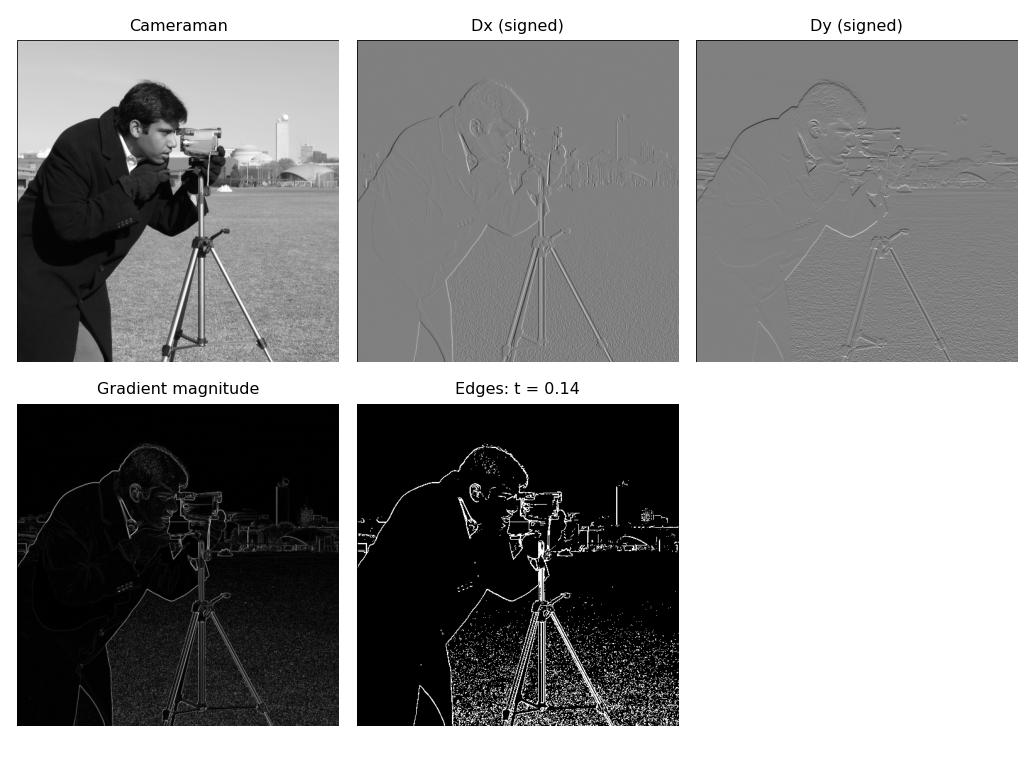
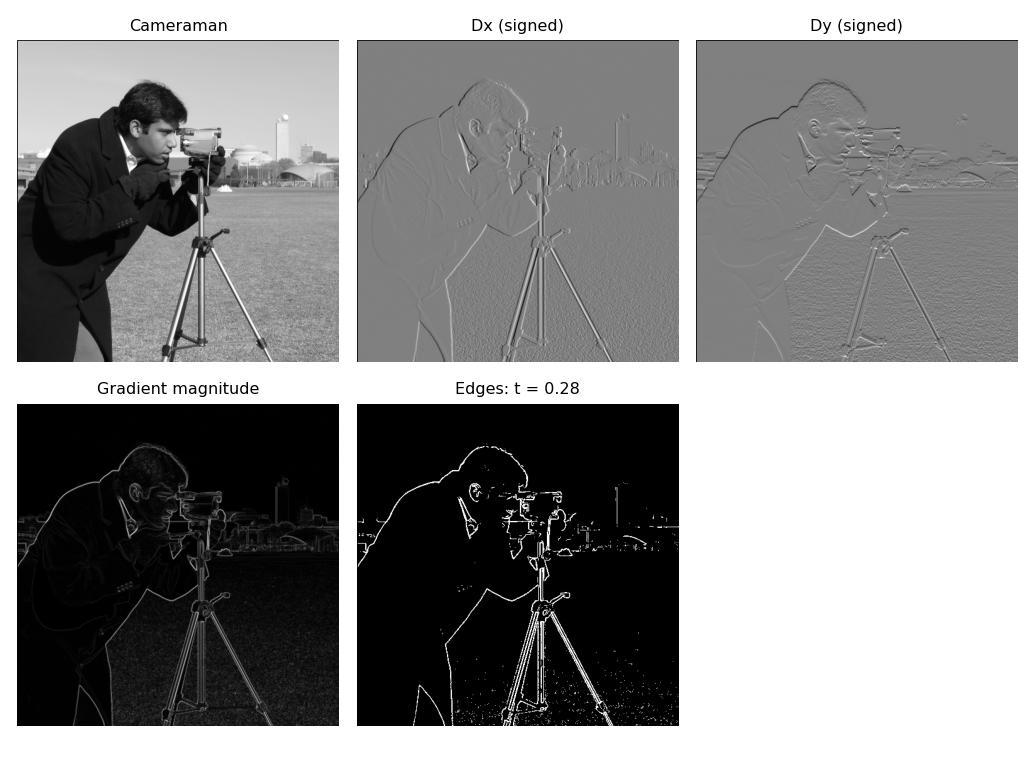
Correct Part 1 finite differences and refresh report results

diff --git a/static/cs180/proj2/index.html b/static/cs180/proj2/index.html
@@ -18,35 +18,35 @@ pre{padding:18px;background:#f5f5f5;border:1px solid #aaa;overflow:auto;font:12p
 <body><main>
 <h1>CS180 Project 2 — Filters and Frequencies</h1>
 <nav><a href="#part1_1">1.1 Convolution</a><a href="#part1_2">1.2 Differences</a><a href="#part1_3">1.3 DoG</a><a href="#part2_1">2.1 Sharpening</a><a href="#part2_2">2.2 Hybrids</a><a href="#part2_3">2.3 Stacks</a><a href="#part2_4">2.4 Blending</a></nav>
-<section id="part1_1"><h2>1.1 — Convolutions from scratch</h2><p>Flip the kernel in both axes, multiply each image window by it, and sum. The four-loop version sums pixel by pixel; the two-loop version uses a NumPy sum. Both return the input size with zero padding. For even kernels, the extra padding goes on the top/left to match SciPy’s same mode. Zero padding darkens the box-filter boundary and creates derivative responses at the image frame.</p><p>The input is my normal-perspective Proj0 portrait, converted to grayscale and resized to 192 × 256. The box kernel is ones((9, 9))/81; Dx = [1, −1], Dy = Dxᵀ. Signed derivatives are displayed around mid-gray.</p><figure><a href="images/1_1.jpg?v=c74b7681d94a"><img src="images/1_1.jpg?v=c74b7681d94a" alt="Portrait filtering; display scaling does not change the computed derivatives."></a><figcaption>Portrait filtering; display scaling does not change the computed derivatives.</figcaption></figure><table><tr><th>Filter</th><th>4 loops (s)</th><th>2 loops (s)</th><th>SciPy (s)</th><th>Max absolute error</th></tr><tr><td>9 × 9 box</td><td>0.7506</td><td>0.0711</td><td>0.0035</td><td>2.44e-15</td></tr><tr><td>Dx</td><td>0.0244</td><td>0.0668</td><td>0.0002</td><td>0.00e+00</td></tr><tr><td>Dy</td><td>0.0269</td><td>0.0664</td><td>0.0003</td><td>0.00e+00</td></tr></table><p>These are one-run timings on the same input. Removing the inner Python loops helps the 9 × 9 filter, but a NumPy sum per pixel adds overhead for tiny derivative kernels. SciPy’s compiled implementation is faster. All outputs agree to floating-point precision.</p><details open><summary>Convolution code</summary><pre><code>def convolve_four_loops(image, kernel):
+<section id="part1_1"><h2>1.1 — Convolutions from scratch</h2><p>Flip the kernel in both axes, multiply each image window by it, and sum. The four-loop version sums pixel by pixel; the two-loop version uses a NumPy sum. Both return the input size with zero padding. For even kernels, the extra padding goes on the top/left to match SciPy’s same mode. Zero padding darkens the box-filter boundary and creates derivative responses at the image frame.</p><p>The input is my normal-perspective Proj0 portrait, converted to grayscale and resized to 192 × 256. The box kernel is ones((9, 9))/81; Dx = [1, 0, −1], Dy = Dxᵀ. Signed derivatives are displayed around mid-gray.</p><figure><a href="images/1_1.jpg?v=21dfd06d0058"><img src="images/1_1.jpg?v=21dfd06d0058" alt="Portrait filtering; display scaling does not change the computed derivatives."></a><figcaption>Portrait filtering; display scaling does not change the computed derivatives.</figcaption></figure><table><tr><th>Filter</th><th>4 loops (s)</th><th>2 loops (s)</th><th>SciPy (s)</th><th>Max absolute error</th></tr><tr><td>9 × 9 box</td><td>0.7395</td><td>0.0699</td><td>0.0032</td><td>2.44e-15</td></tr><tr><td>Dx</td><td>0.0330</td><td>0.0654</td><td>0.0003</td><td>0.00e+00</td></tr><tr><td>Dy</td><td>0.0387</td><td>0.0646</td><td>0.0004</td><td>0.00e+00</td></tr></table><p>These are one-run timings on the same input. Removing the inner Python loops helps the 9 × 9 filter, but a NumPy sum per pixel adds overhead for tiny derivative kernels. SciPy’s compiled implementation is faster. All outputs agree to floating-point precision.</p><details open><summary>Convolution code</summary><pre><code>def _prep_conv(image, kernel):
+    kh, kw = kernel.shape
+    pad = np.pad(image, ((kh // 2, (kh - 1) // 2), (kw // 2, (kw - 1) // 2)))
+    return pad, kernel[::-1, ::-1], np.zeros(image.shape)
+
+
+def convolve_four_loops(image, kernel):
+    pad, flip, res = _prep_conv(image, kernel)
     h, w = image.shape
     kh, kw = kernel.shape
-    padded = np.pad(image, ((kh // 2, (kh - 1) // 2),
-                           (kw // 2, (kw - 1) // 2)), mode=&quot;constant&quot;)
-    flipped = kernel[::-1, ::-1]
-    result = np.zeros((h, w), dtype=float)
     for y in range(h):
         for x in range(w):
             for ky in range(kh):
                 for kx in range(kw):
-                    result[y, x] += padded[y + ky, x + kx] * flipped[ky, kx]
-    return result
+                    res[y, x] += pad[y + ky, x + kx] * flip[ky, kx]
+    return res
+
 
 def convolve_two_loops(image, kernel):
+    pad, flip, res = _prep_conv(image, kernel)
     h, w = image.shape
     kh, kw = kernel.shape
-    padded = np.pad(image, ((kh // 2, (kh - 1) // 2),
-                           (kw // 2, (kw - 1) // 2)), mode=&quot;constant&quot;)
-    flipped = kernel[::-1, ::-1]
-    result = np.zeros((h, w), dtype=float)
     for y in range(h):
         for x in range(w):
-            window = padded[y:y + kh, x:x + kw]
-            result[y, x] = np.sum(window * flipped)
-    return result
+            res[y, x] = np.sum(pad[y:y + kh, x:x + kw] * flip)
+    return res
 </code></pre></details></section>
-<section id="part1_2"><h2>1.2 — Finite difference operator</h2><p>Convolve with Dx = [1, −1] and Dy = Dxᵀ. The gradient magnitude is √(Ix² + Iy²); an edge is a pixel whose magnitude exceeds the threshold. Symmetric boundaries avoid artificial edges against a black frame.</p><figure><a href="images/1_2.jpg?v=318c78bd40d5"><img src="images/1_2.jpg?v=318c78bd40d5" alt="Signed derivatives, normalized magnitude display, and binary edges."></a><figcaption>Signed derivatives, normalized magnitude display, and binary edges.</figcaption></figure><figure><a href="images/1_2_thresholds.jpg?v=221225b62d83"><img src="images/1_2_thresholds.jpg?v=221225b62d83" alt="Thresholds are applied to the raw gradient of a [0, 1] image."></a><figcaption>Thresholds are applied to the raw gradient of a [0, 1] image.</figcaption></figure><p>I use 0.14: 0.08 retains more grass texture, while 0.20 loses weaker contours. The middle choice keeps the person and tripod while removing some weak responses; texture still appears because finite differences respond to rapid changes everywhere.</p></section>
-<section id="part1_3"><h2>1.3 — Derivative of Gaussian</h2><p>Build an 11 × 11 Gaussian with σ = 1.5 using cv2.getGaussianKernel and an outer product. Smoothing before differentiation suppresses fine texture. The resulting contours are thicker and less noisy, but some fine details disappear. Their lower magnitudes need a lower threshold (0.04).</p><figure><a href="images/1_3_filters.jpg?v=ecb1e14396e3"><img src="images/1_3_filters.jpg?v=ecb1e14396e3" alt="Gaussian and signed derivative-of-Gaussian kernels."></a><figcaption>Gaussian and signed derivative-of-Gaussian kernels.</figcaption></figure><figure><a href="images/1_3.jpg?v=c3cf0fc6289f"><img src="images/1_3.jpg?v=c3cf0fc6289f" alt="Blur then differentiate, compared with one convolution per derivative using DoG."></a><figcaption>Blur then differentiate, compared with one convolution per derivative using DoG.</figcaption></figure><figure><a href="images/1_3_compare.jpg?v=7b2190148130"><img src="images/1_3_compare.jpg?v=7b2190148130" alt="Noise comparison and numerical equivalence."></a><figcaption>Noise comparison and numerical equivalence.</figcaption></figure><p>Associativity gives (I * G) * Dx = I * (G * Dx). With one symmetric extension and valid convolutions, the maximum x/y error over the whole image is 1.40e-15. If the intermediate image is extended again, only the boundary differs; interior error is 1.40e-15. Keeping these boundary conventions explicit avoids a misleading comparison.</p></section>
+<section id="part1_2"><h2>1.2 — Finite difference operator</h2><p>Convolve with Dx = [1, 0, −1] and Dy = Dxᵀ. The gradient magnitude is √(Ix² + Iy²); an edge is a pixel whose magnitude exceeds the threshold. Symmetric boundaries avoid artificial edges against a black frame.</p><figure><a href="images/1_2.jpg?v=6c7d0187dd9f"><img src="images/1_2.jpg?v=6c7d0187dd9f" alt="Signed derivatives, normalized magnitude display, and binary edges."></a><figcaption>Signed derivatives, normalized magnitude display, and binary edges.</figcaption></figure><figure><a href="images/1_2_thresholds.jpg?v=412287967e94"><img src="images/1_2_thresholds.jpg?v=412287967e94" alt="Thresholds are applied to the raw gradient of a [0, 1] image."></a><figcaption>Thresholds are applied to the raw gradient of a [0, 1] image.</figcaption></figure><p>I use 0.28: 0.16 retains more grass texture, while 0.40 loses weaker contours. The wider difference spans two pixels, so the thresholds are increased. The middle choice keeps the person and tripod while removing some weak responses; texture still appears because finite differences respond to rapid changes everywhere.</p></section>
+<section id="part1_3"><h2>1.3 — Derivative of Gaussian</h2><p>Build an 11 × 11 Gaussian with σ = 1.5 using cv2.getGaussianKernel and an outer product. Smoothing before differentiation suppresses fine texture. The resulting contours are thicker and less noisy, but some fine details disappear. Their lower magnitudes need a lower threshold (0.08).</p><figure><a href="images/1_3_filters.jpg?v=236f0df7beac"><img src="images/1_3_filters.jpg?v=236f0df7beac" alt="Gaussian and signed derivative-of-Gaussian kernels."></a><figcaption>Gaussian and signed derivative-of-Gaussian kernels.</figcaption></figure><figure><a href="images/1_3.jpg?v=0a53a8833ad1"><img src="images/1_3.jpg?v=0a53a8833ad1" alt="Blur then differentiate, compared with one convolution per derivative using DoG."></a><figcaption>Blur then differentiate, compared with one convolution per derivative using DoG.</figcaption></figure><figure><a href="images/1_3_compare.jpg?v=dcb8400b2f0e"><img src="images/1_3_compare.jpg?v=dcb8400b2f0e" alt="Noise comparison and numerical equivalence."></a><figcaption>Noise comparison and numerical equivalence.</figcaption></figure><p>Associativity gives (I * G) * Dx = I * (G * Dx). With one symmetric extension and valid convolutions, the maximum x/y error over the whole image is 1.51e-15. Both outputs retain the original image size. The displayed smoothed-difference and DoG magnitudes agree to floating-point precision.</p></section>
 <section id="part2_1"><h2>2.1 — Image sharpening</h2><p>Unsharp masking adds amplified high frequencies: S = I + α(I − G * I). Equivalently, use one convolution with (1 + α)δ − αG. The implementation uses this single kernel independently on R, G and B. Computation stays in floating point; only display clips to [0, 1].</p><figure><a href="images/2_1_taj.jpg?v=b76e0b8eefbd"><img src="images/2_1_taj.jpg?v=b76e0b8eefbd" alt="Taj: blur, high frequencies, and three sharpening amounts."></a><figcaption>Taj: blur, high frequencies, and three sharpening amounts.</figcaption></figure><figure><a href="images/2_1_campus.jpg?v=a842a9a7e0c4"><img src="images/2_1_campus.jpg?v=a842a9a7e0c4" alt="Campus: blur, high frequencies, and three sharpening amounts."></a><figcaption>Campus: blur, high frequencies, and three sharpening amounts.</figcaption></figure><figure><a href="images/2_1_recovery.jpg?v=94811f5a3c99"><img src="images/2_1_recovery.jpg?v=94811f5a3c99" alt="Blur-then-sharpen evaluation on my Proj0 campus photograph."></a><figcaption>Blur-then-sharpen evaluation on my Proj0 campus photograph.</figcaption></figure><p>Increasing α strengthens edges, but α = 3 also exaggerates texture and creates halos. On the deliberately blurred campus image, MSE relative to the original changes from 0.004495 to 0.003253. Sharpening restores some edge contrast, but cannot recover details removed by blur; it is not an inverse filter.</p></section>
 <section id="part2_2"><h2>2.2 — Hybrid images</h2><p>A hybrid adds a Gaussian low-pass image to a second image’s high-pass residual: H = GσL * A + (B − GσH * B). Close viewing reveals fine detail from B; at a distance, A’s broad structure dominates. Both frequency components retain RGB color; filtering is applied per channel.</p><p>Two manually chosen eye centers (or building landmarks) define a similarity transform. Each pair is rotated, uniformly scaled and translated to common landmarks, then cropped to shared valid coverage. The first image supplies low frequencies.</p><figure><a href="images/2_2_derek_nutmeg.jpg?v=5a079198de8d"><img src="images/2_2_derek_nutmeg.jpg?v=5a079198de8d" alt="Derek + Nutmeg"></a><figcaption>Derek + Nutmeg</figcaption></figure><p>σL = 5, σH = 3 pixels at the aligned resolution. <a href="images/2_2_derek_nutmeg_result.jpg?v=0e065423c3cd">Open hybrid at full size</a>.</p><figure><a href="images/2_2_process.jpg?v=5f9551e8a2fd"><img src="images/2_2_process.jpg?v=5f9551e8a2fd" alt="Derek + Nutmeg: aligned inputs, filtered components, and hybrid."></a><figcaption>Derek + Nutmeg: aligned inputs, filtered components, and hybrid.</figcaption></figure><figure><a href="images/2_2_fourier.jpg?v=bec0647217ee"><img src="images/2_2_fourier.jpg?v=bec0647217ee" alt="Luminance log(1 + |fftshift(fft2(I))|); each panel is independently display-normalized."></a><figcaption>Luminance log(1 + |fftshift(fft2(I))|); each panel is independently display-normalized.</figcaption></figure><figure><a href="images/2_2_cutoffs.jpg?v=ee4ff94e6cd0"><img src="images/2_2_cutoffs.jpg?v=ee4ff94e6cd0" alt="Cutoff comparison at the same aligned resolution."></a><figcaption>Cutoff comparison at the same aligned resolution.</figcaption></figure><p>I choose (5, 3): the smaller sigmas retain more competing facial detail, while (8, 5) makes the cat’s broader features dominate. Gaussian filters have no hard cutoff; their approximate half-amplitude frequency is √(2 ln 2)/(2πσ), giving 0.0375 and 0.0625 cycles/pixel for σ = 5 and 3. The low-pass spectrum concentrates around the center; subtracting the blur suppresses the high-pass center.</p><figure><a href="images/2_2_yuan_perspectives.jpg?v=3548d145b06b"><img src="images/2_2_yuan_perspectives.jpg?v=3548d145b06b" alt="Yuan + Perspectives"></a><figcaption>Yuan + Perspectives</figcaption></figure><p>σL = 5, σH = 3 pixels at the aligned resolution. <a href="images/2_2_yuan_perspectives_result.jpg?v=805682e5b8fc">Open hybrid at full size</a>.</p><figure><a href="images/2_2_church_monastery.jpg?v=b6f66523a2ee"><img src="images/2_2_church_monastery.jpg?v=b6f66523a2ee" alt="Church + Monastery"></a><figcaption>Church + Monastery</figcaption></figure><p>σL = 6, σH = 2 pixels at the aligned resolution. <a href="images/2_2_church_monastery_result.jpg?v=d1cdbaab870d">Open hybrid at full size</a>.</p><p>The face pairs share eye landmarks. My custom portrait pair combines the normal-distance face shape with close-selfie detail; the change is subtle because it is the same person. Church + Monastery is a less successful example: two landmarks cannot align every tower, so overlapping rooflines remain. It illustrates the limit of combining structurally different scenes.</p></section>
 <section id="part2_3"><h2>2.3 — Gaussian and Laplacian stacks</h2><p>RGB channels are filtered independently. All stack levels keep the original dimensions. G0 = I; later levels blur I with σ = 1, 2, 4, 8, 16 pixels using separable Gaussian convolutions. Li = Gi − Gi+1, with the last Gaussian retained as the low-frequency residual. Summing all Laplacian levels reconstructs the original. No built-in pyramid function is used.</p><figure><a href="images/2_3_apple_gaussian.jpg?v=d73d2c39358d"><img src="images/2_3_apple_gaussian.jpg?v=d73d2c39358d" alt="Apple: Gaussian stack, no downsampling."></a><figcaption>Apple: Gaussian stack, no downsampling.</figcaption></figure><figure><a href="images/2_3_apple_laplacian.jpg?v=f58592368f8e"><img src="images/2_3_apple_laplacian.jpg?v=f58592368f8e" alt="Apple: Laplacian bands; each signed band is display-normalized."></a><figcaption>Apple: Laplacian bands; each signed band is display-normalized.</figcaption></figure><figure><a href="images/2_3_orange_gaussian.jpg?v=f9d4d41a5789"><img src="images/2_3_orange_gaussian.jpg?v=f9d4d41a5789" alt="Orange: Gaussian stack, no downsampling."></a><figcaption>Orange: Gaussian stack, no downsampling.</figcaption></figure><figure><a href="images/2_3_orange_laplacian.jpg?v=5fac309a1a74"><img src="images/2_3_orange_laplacian.jpg?v=5fac309a1a74" alt="Orange: Laplacian bands; each signed band is display-normalized."></a><figcaption>Orange: Laplacian bands; each signed band is display-normalized.</figcaption></figure><p>Fine edges appear in early Laplacian levels; broader intensity changes appear later. The final residual carries the smooth brightness structure. The masked (a)–(l) reconstruction is shown with the blend in Part 2.4.</p></section>
